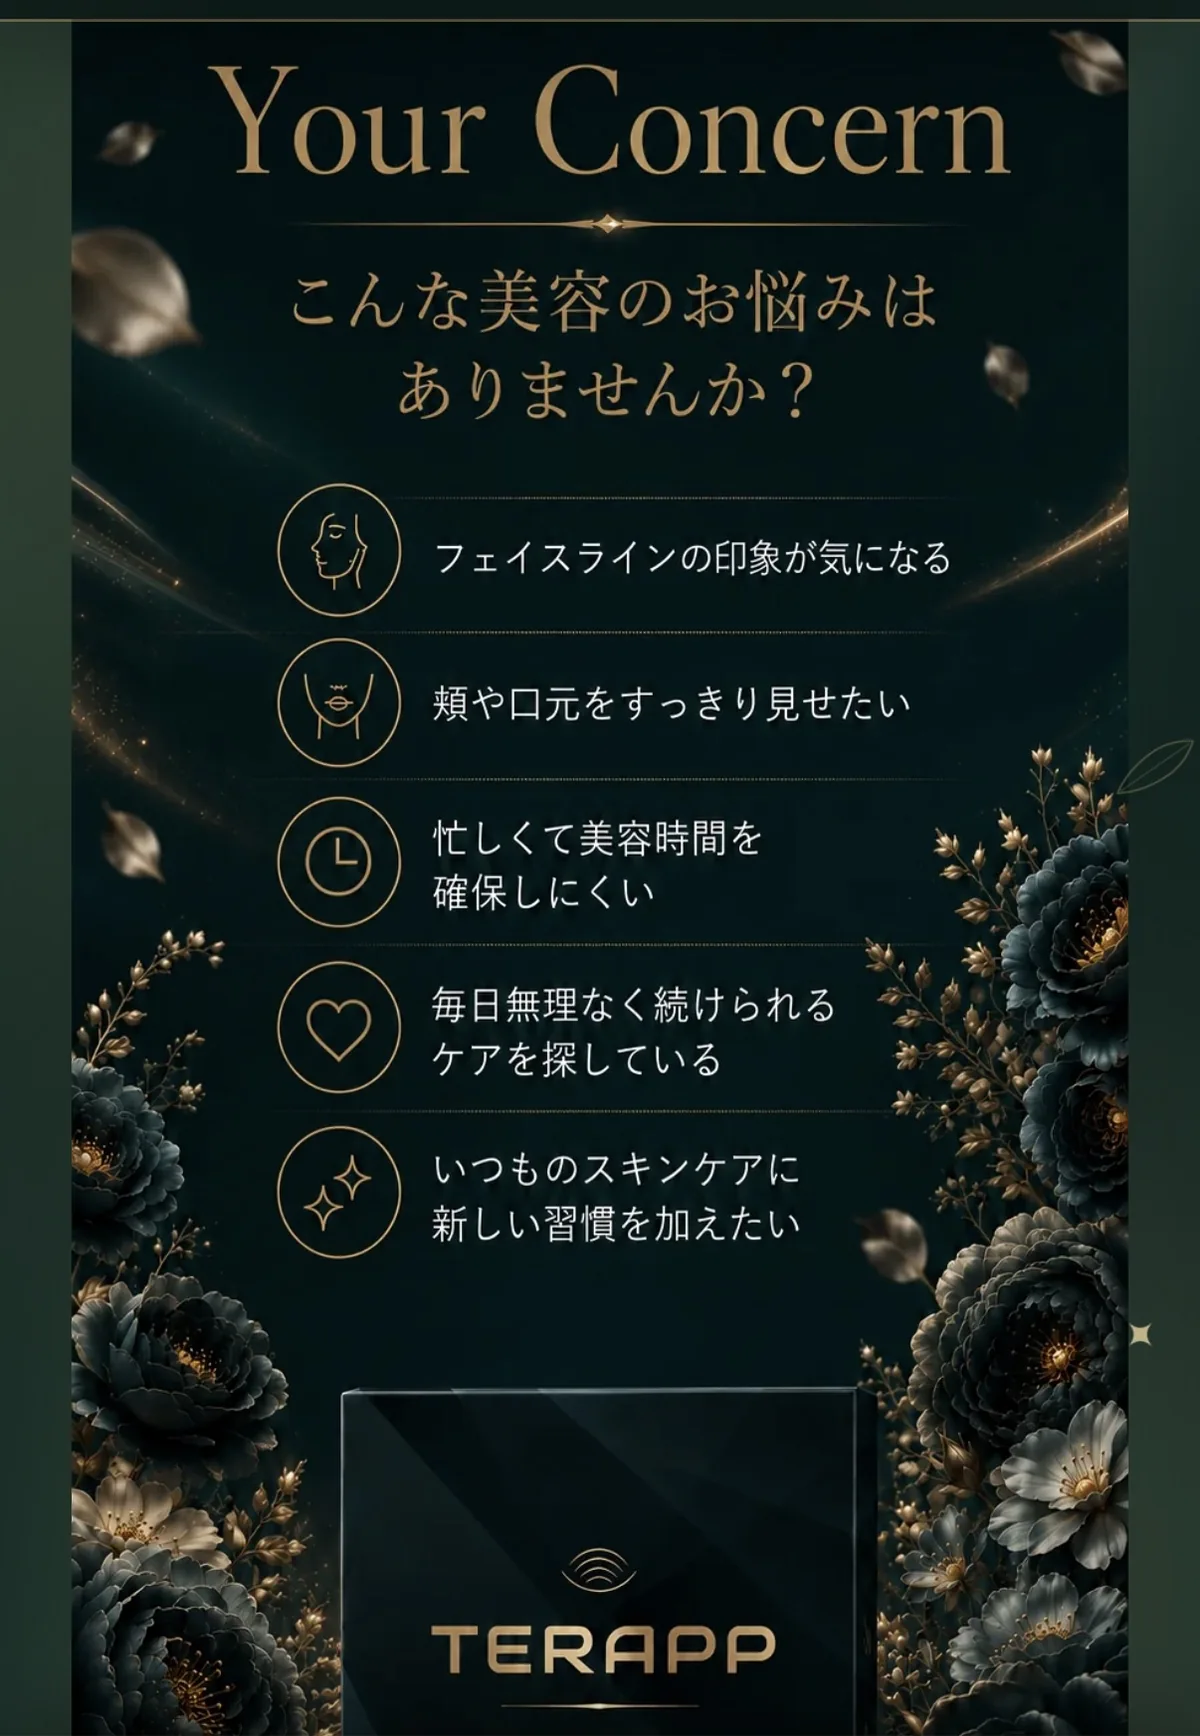
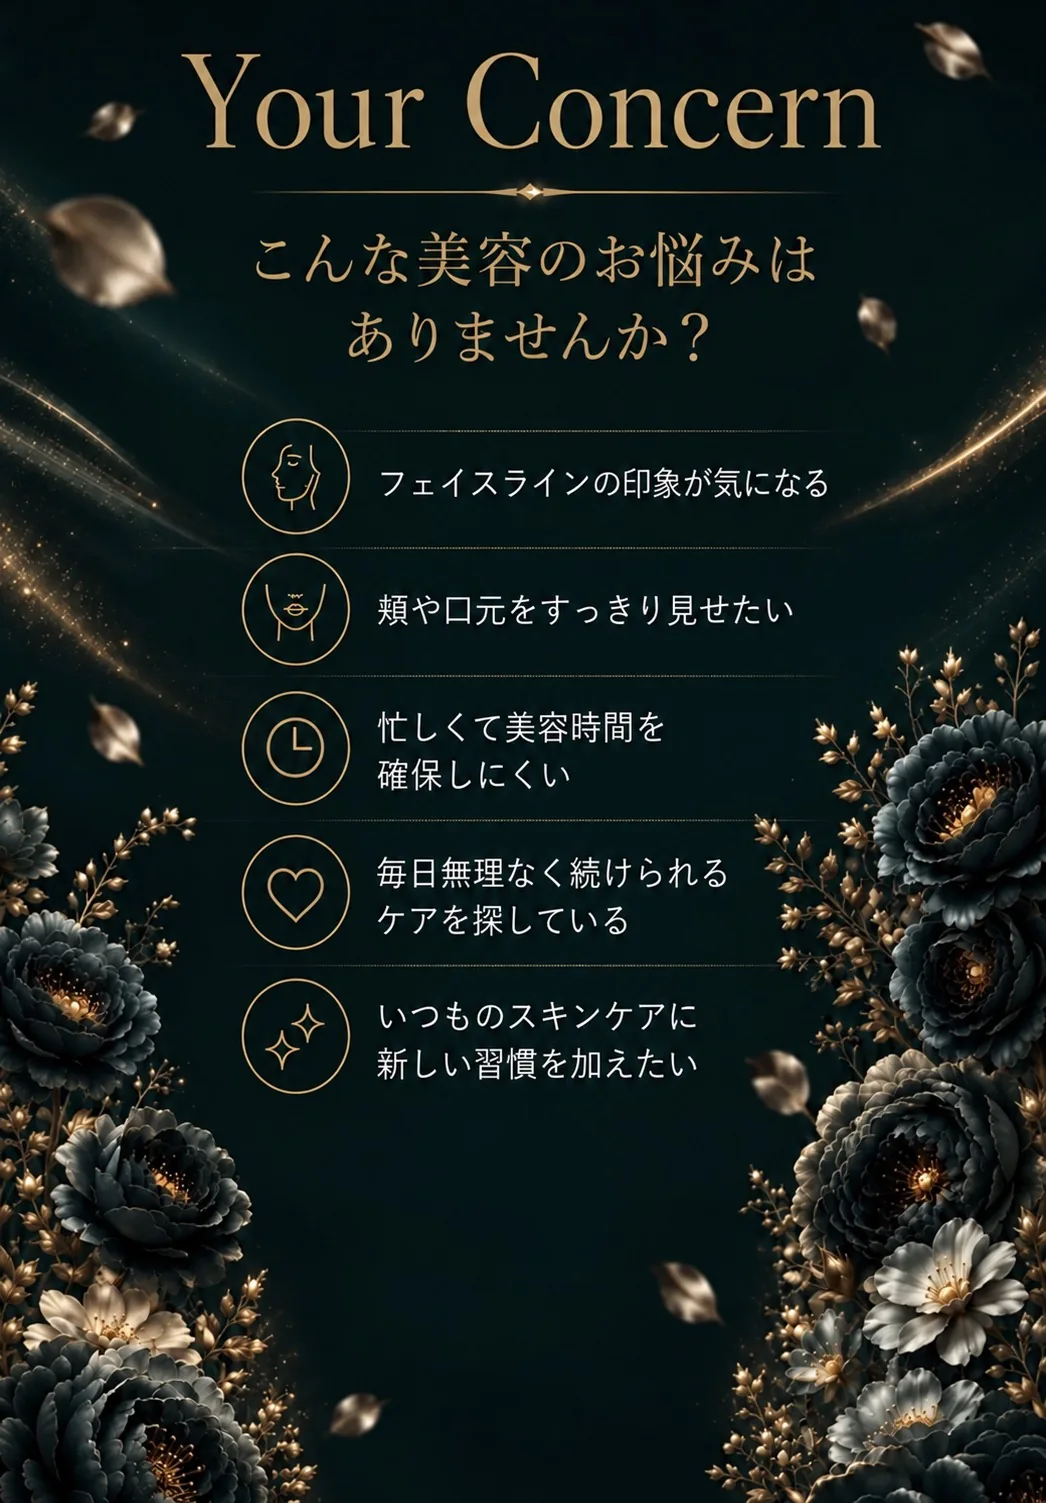
lp001: 貼る位置ガイド（翳風表記・新版）とYour Concern（新版）の画像を差し替え

diff --git a/lp001/index.html b/lp001/index.html
@@ -983,7 +983,7 @@ footer{background:var(--dark-2);color:var(--on-dark);padding:clamp(3rem,7vw,5rem
     </ul>
     <figure class="concern-figure reveal">
       <picture><source srcset="images/concern.webp" type="image/webp">
-      <img src="images/concern.jpg" width="1200" height="1736" loading="lazy" decoding="async"
+      <img src="images/concern.jpg" width="1046" height="1503" loading="lazy" decoding="async"
            alt="Your Concern こんな美容のお悩みはありませんか？ フェイスラインの印象が気になる／頬や口元をすっきり見せたい／忙しくて美容時間を確保しにくい／毎日無理なく続けられるケアを探している／いつものスキンケアに新しい習慣を加えたい。TERAPP商品パッケージのイメージ。"></picture>
     </figure>
   </div>
@@ -1026,8 +1026,8 @@ footer{background:var(--dark-2);color:var(--on-dark);padding:clamp(3rem,7vw,5rem
     <div class="points-inner">
       <figure class="points-visual reveal">
         <picture><source srcset="images/terapp-points.webp" type="image/webp">
-        <img src="images/terapp-points.jpg" width="862" height="1824" loading="lazy" decoding="async"
-             alt="貼る位置ガイド。ツボ『翳風（えいふう）』は耳の後ろのくぼみ、『聴会（ちょうえ）』は耳たぶの前のくぼみ。左右のツボに貼るのがおすすめのTERAPP Lift Up Patch使用イメージ。"></picture>
+        <img src="images/terapp-points.jpg" width="954" height="1470" loading="lazy" decoding="async"
+             alt="貼るだけで始まる、新しい美容ルーティン。貼る位置ガイド：翳風（えいふう）は耳の後ろのくぼみ、聴会（ちょうえ）は耳たぶの前のくぼみ。POINT：左右の翳風と聴会に貼るのがおすすめ。"></picture>
       </figure>
       <div class="points-copy">
         <span class="eyebrow reveal" style="display:block;margin-bottom:1.6rem">Where to Apply</span>
